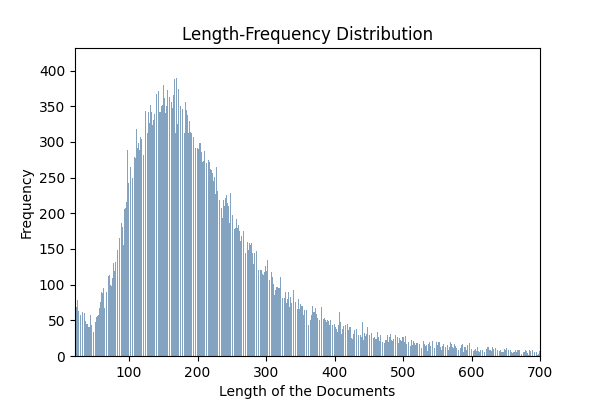
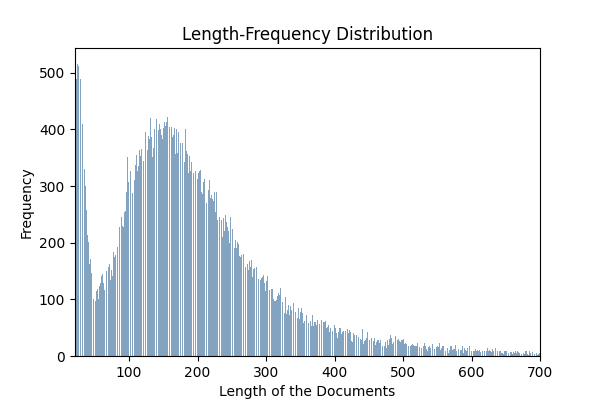
banking

Changed region(s): [[0.06, 0.15, 0.21, 0.81], [0.21, 0.21, 0.78, 0.87], [0.18, 0.57, 0.21, 0.6]]

diff --git a/preprocessing/preprocessing.py b/preprocessing/preprocessing.py
@@ -226,12 +226,12 @@ class PreProcessor():
         print(f'After removing duplicates : {len(data)}')
         print(f'After removing duplicates : {len(data_test)}')
 
-        data = data[['title', 'category']]
-        data_test = data_test[['title', 'category']]
+        data = data[['cleanText', 'category']]
+        data_test = data_test[['cleanText', 'category']]
 
         # remove unnecessary punctuation & stopwords
-        data['cleaned'] = data['title'].apply(self.cleaning_documents)
-        data_test['cleaned'] = data_test['title'].apply(self.cleaning_documents)
+        data['cleaned'] = data['cleanText'].apply(self.cleaning_documents)
+        data_test['cleaned'] = data_test['cleanText'].apply(self.cleaning_documents)
 
         self.data, self.data_test = data, data_test
 

diff --git a/__main__.py b/__main__.py
@@ -16,7 +16,7 @@ from training.training import ModelTrainer
 def main():
     for dir in [DIR_REPORT, DIR_IMAGES_HISTORY, DIR_PERFORMENCE_REPORT, DIR_IMAGES_EDA]:
         make_dir_if_not_exists(dir)
-    name = 'collected_title_'
+    name = 'collected'
     # get cleaned train and test data
     preprocessor = PreProcessor()
     data, data_test = preprocessor.read_collected_data()

diff --git a/scraping/multi_threding.py b/scraping/multi_threding.py
@@ -98,7 +98,7 @@ def scrape_banglanews24_from_recent_years():
    years = [2019, 2018, 2017, 2016, 2015, 2014]
    # years = [2019]
    for year in years:
-      years_q = f'category/share/1208?y={year}&'
+      years_q = f'category/banking/1209?y={year}&'
 
       categories = {'economy':years_q}
 
